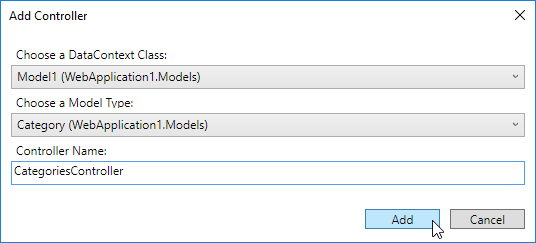
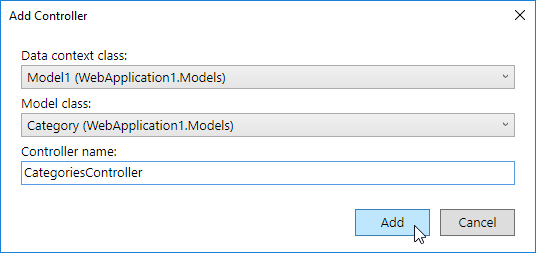
MVC: Update images in scaffolding guides (#2465)
* MVC: Update images in scaffolding guides

* Update the image to the updated design

diff --git a/concepts/35 ASP.NET MVC Controls/40 Visual Studio Integration/20 Scaffolding/30 DevExtreme Control Scaffolding/8 Create a New View.md b/concepts/35 ASP.NET MVC Controls/40 Visual Studio Integration/20 Scaffolding/30 DevExtreme Control Scaffolding/8 Create a New View.md
@@ -1,6 +1,6 @@
 You can also create a new view with a scaffolded DevExtreme control on it. It is an MVC view or a Razor page, depending on the type of project.
 
-1. In **Solution Explorer**, right-click the folder in which to place the view. On the invoked menu, point to **Add** and then click **View...** or **New Scaffolded Item...**.
+1. In **Solution Explorer**, right-click the folder in which to place the view. On the invoked menu, point to **Add** and then click **View...**/**Razor Page...** or **New Scaffolded Item...**.
 
     ![DevExtreme ASP.NET MVC Controls - Add New Scaffolded Item on the context menu](/Content/images/doc/18_1/Common/MvcWrappers/scaffolding_view_new-item.png)
 
